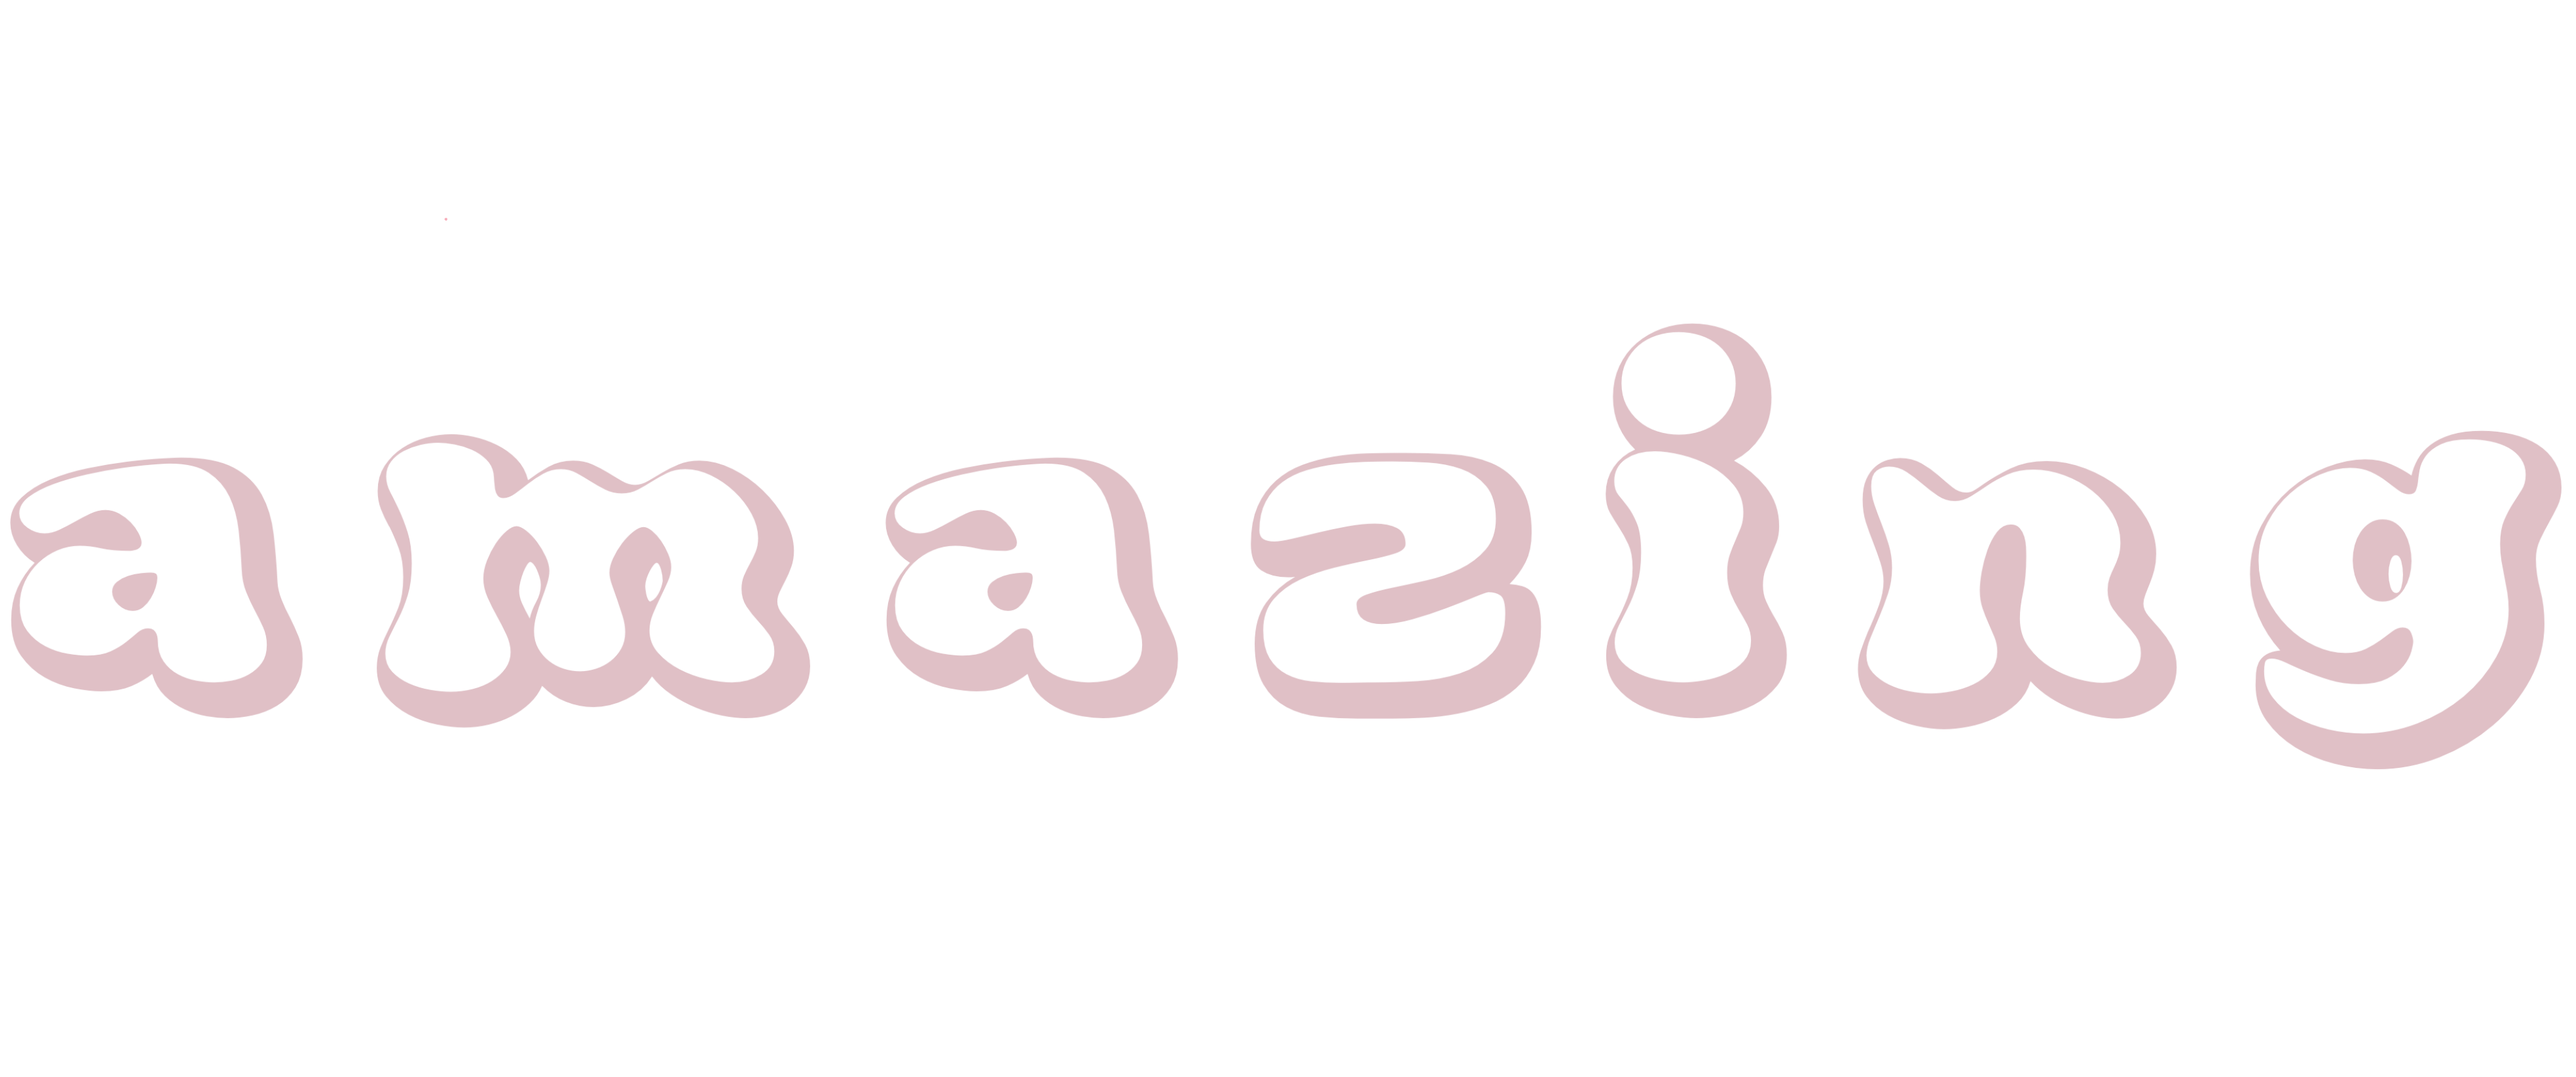
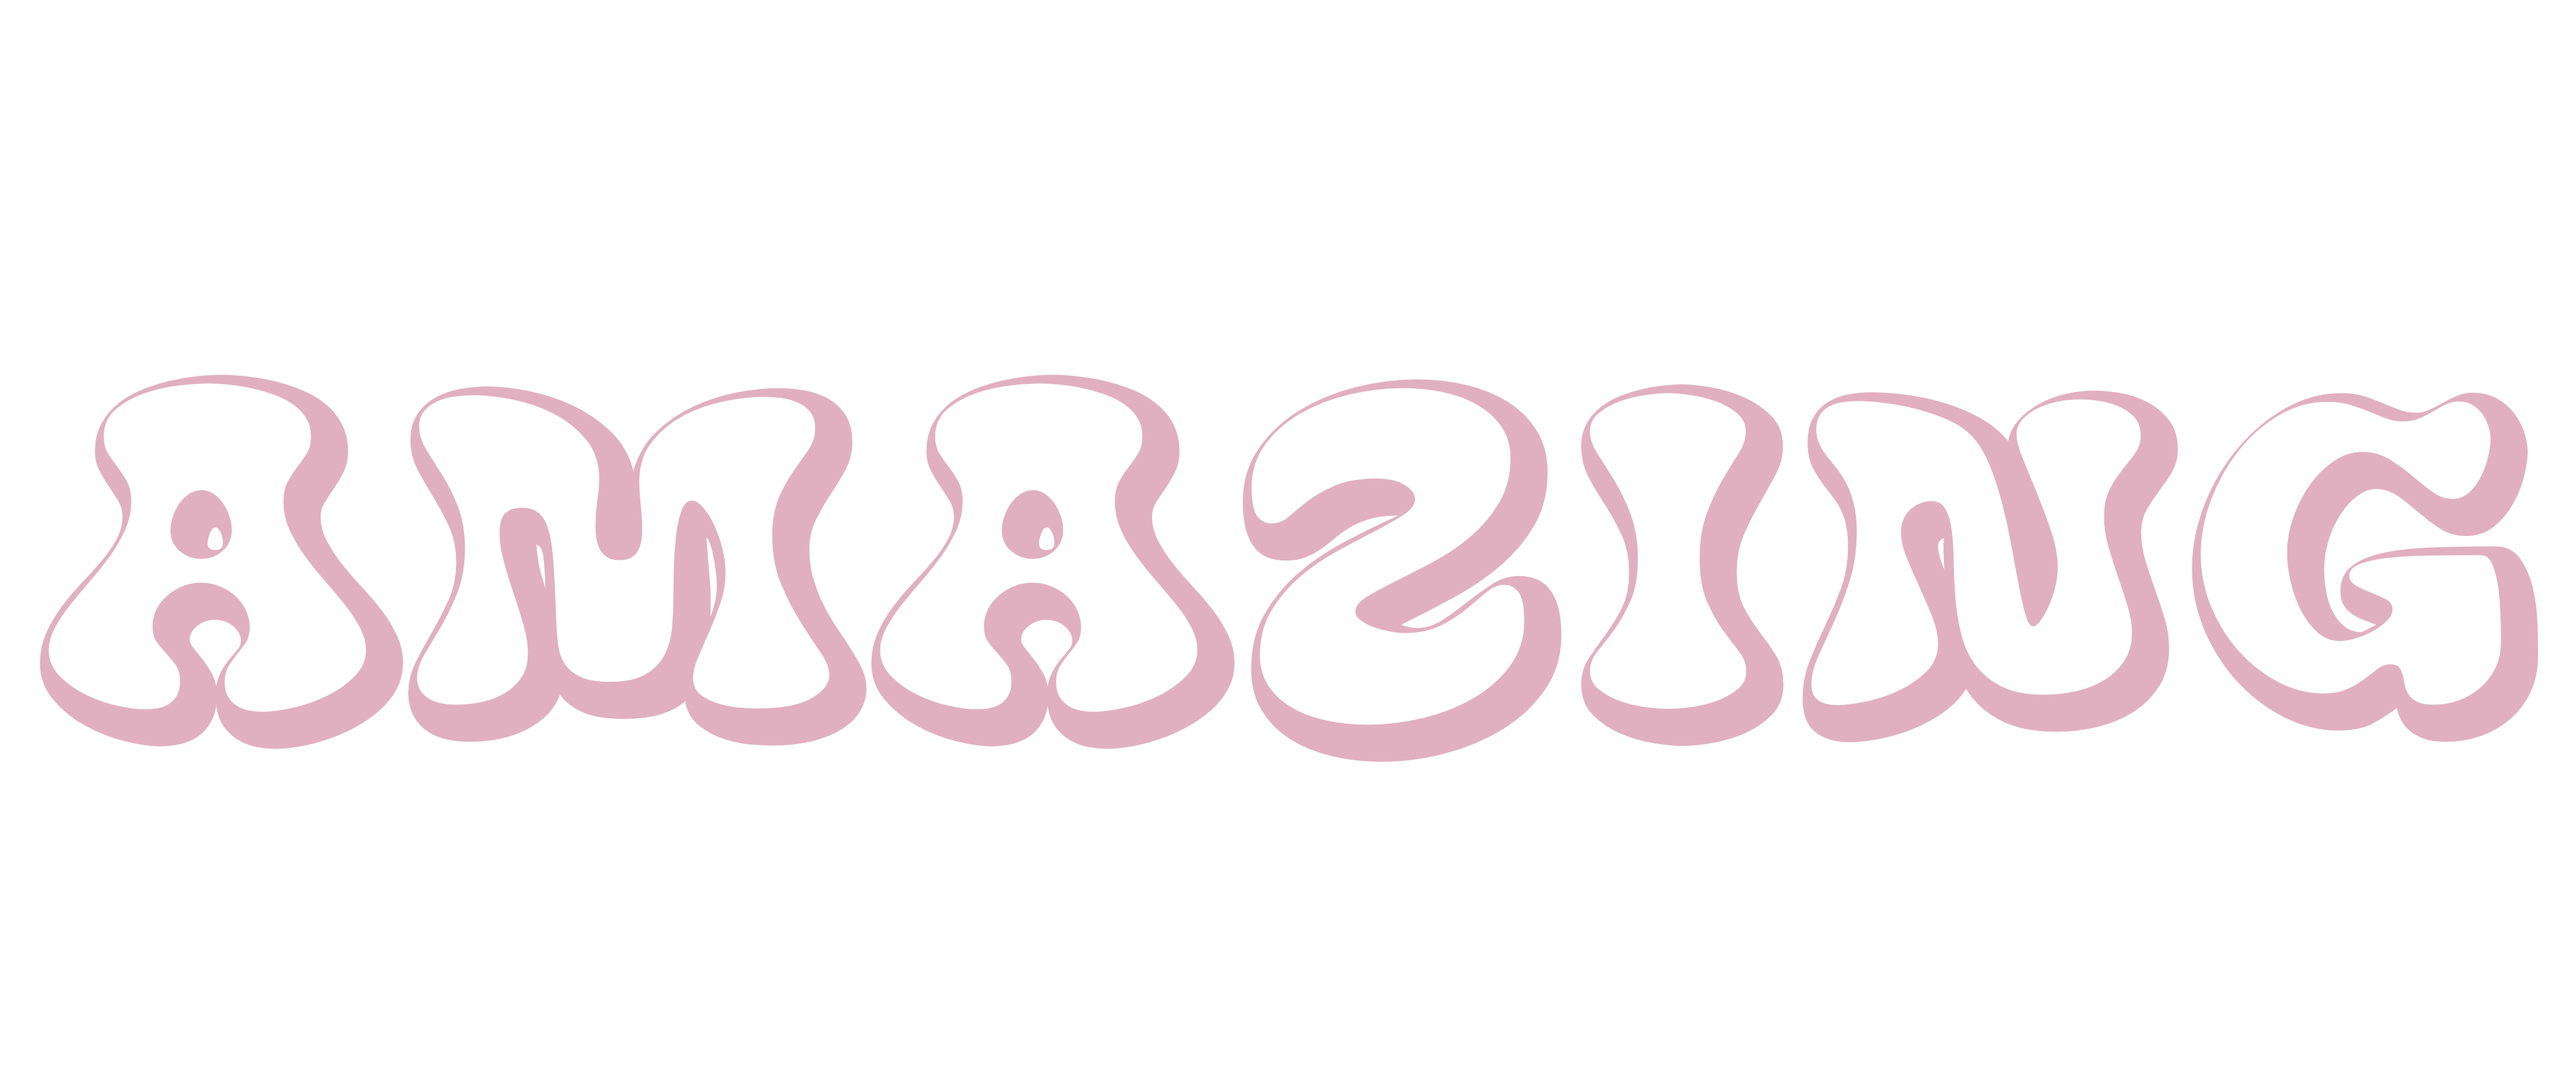
added images

Changed region(s): [[0.0, 0.2783, 1.0, 0.7112], [0.375, 0.3401, 0.4375, 0.3711], [0.2812, 0.3401, 0.3125, 0.3711]]

diff --git a/src/components/Brand/brand.css b/src/components/Brand/brand.css
@@ -17,7 +17,7 @@
     display: flex; 
     flex-direction: column;
     width:50%;
-    height: 70%;
+    height: 60%;
     border-radius: 2ch;
     background: rgba(207, 186, 186, 0.164);
     box-shadow: rgba(99, 9, 9, 0.25) 0px 25px 50px -12px;
@@ -49,14 +49,14 @@
 
 .bg_img_change {
     display: flex;
-    animation: changeBg 3s infinite;
+    animation: changeBg 23s infinite;
     width: 100%;
     height: 30%;
     background-repeat: no-repeat;
     background-position: center;
     position: relative;
-    background-size: contain;
-    left: -3ch;
+    background-size: cover;
+    left: 0ch;
     z-index: 0;
     padding-bottom: 0ch;
     padding-top: 1ch;
@@ -71,25 +71,55 @@
         background-image: url("../../Assets/Images/amazing1.png")
     }
 
-    20% {
+    10% {
 
         background-image: url("../../Assets/Images/amazing2.png")
     }
 
-    40% {
+    20% {
 
         background-image: url("../../Assets/Images/amazing3.png")
     }
 
-    60% {
+    30% {
 
         background-image: url("../../Assets/Images/amazing4.png")
     }
 
-    80% {
+    40% {
 
         background-image: url("../../Assets/Images/amazing5.png")
     }
+    50% {
+
+        background-image: url("../../Assets/Images/amazing6.png")
+    }
+
+    60% {
+
+        background-image: url("../../Assets/Images/amazing7.png")
+    }
+
+    40% {
+
+        background-image: url("../../Assets/Images/amazing8.png")
+    }
+
+    70% {
+
+        background-image: url("../../Assets/Images/amazing9.png")
+    }
+
+    80% {
+
+        background-image: url("../../Assets/Images/amazing10.png")
+    }
+    90% {
+
+        background-image: url("../../Assets/Images/amazing11.png")
+    }
+
+
 }
 .close-btn {
     background-color: #d8343400;
@@ -200,6 +230,7 @@
     border-radius: 2ch;
     margin: 0%;
     overflow: auto;
+    
 }
 
 .react-pdf__Page__canvas {
@@ -211,7 +242,8 @@
     z-index: 2;
     left:74ch; 
     top:3ch; 
-    border-radius: 10px;
+    border-radius: 2ch;
+    background: rgba(207, 186, 186, 0.164);
     box-shadow: rgba(99, 9, 9, 0.25) 0px 25px 50px -12px;
 }
 

diff --git a/src/components/SideNav/sidenav.css b/src/components/SideNav/sidenav.css
@@ -197,6 +197,11 @@
         width: 37ch;
         font-size: 16px;
     }
+    .btn-links-projects{
+    
+        font-size: 24px;
+        text-align: left;
+    }
 
     .email-img {
         height: 50px;
